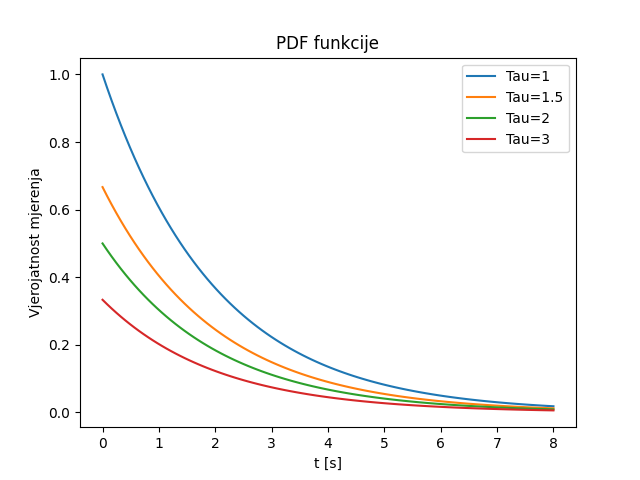
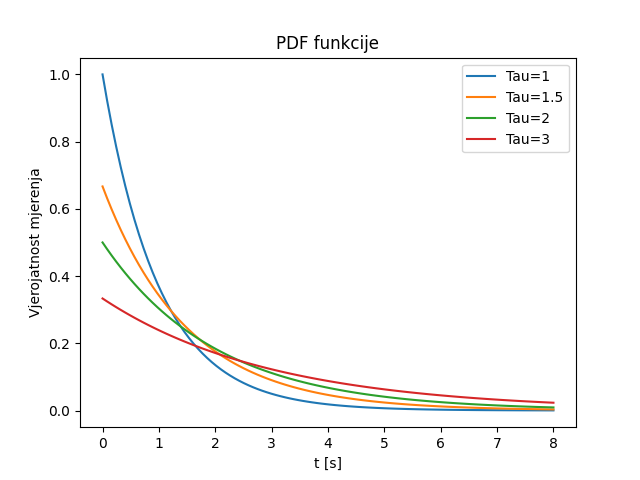
Add existing file

diff --git a/Vjezbe/Vjezbe_4/zd2.py b/Vjezbe/Vjezbe_4/zd2.py
@@ -13,9 +13,9 @@ y_data3=[]
 i=0
 while i<len(x_data):
     y_data.append((1/tau)*np.exp(-x_data[i]/tau))
-    y_data1.append(np.exp(-x_data[i]/tau))
-    y_data2.append((1/3)*np.exp(-x_data[i]/tau))
-    y_data3.append((1/1.5)*np.exp(-x_data[i]/tau))
+    y_data1.append(np.exp(-x_data[i]))
+    y_data2.append((1/3)*np.exp(-x_data[i]/3))
+    y_data3.append((1/1.5)*np.exp(-x_data[i]/1.5))
     i+=1
 
 plt.plot(x_data, y_data1, label="Tau=1")
